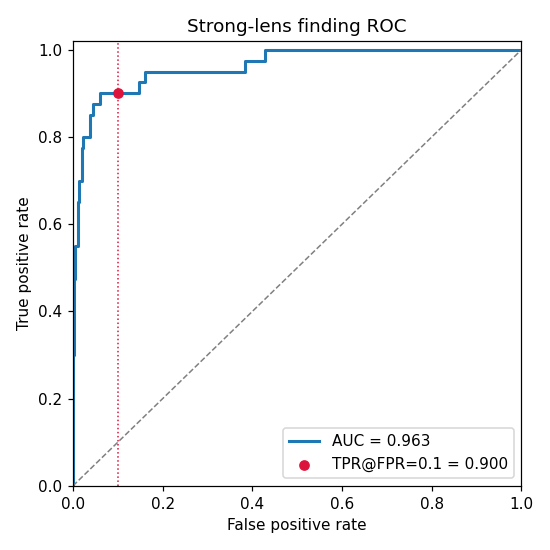
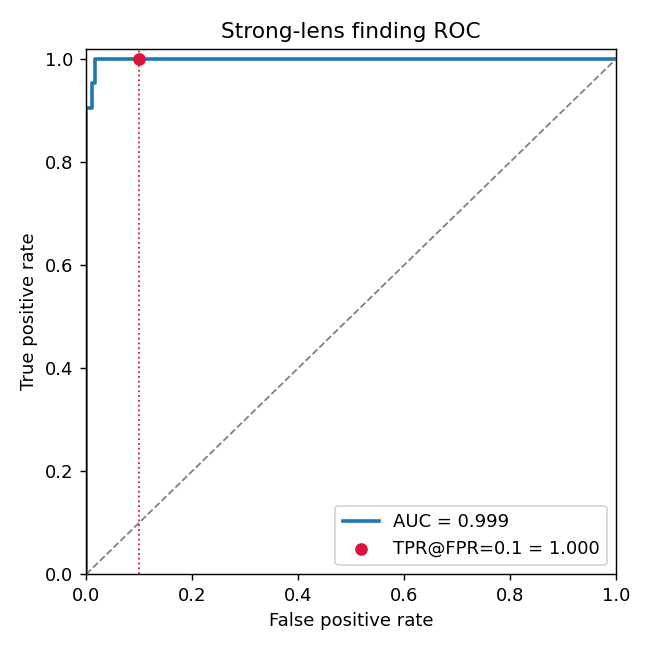
Real DINOv3 results in README + notebook auto-loads best.pt; LoRA all-linear; modern AMP API

Changed region(s): [[0.0309, 0.0309, 0.9891, 0.9891], [0.1855, 0.3709, 0.2164, 0.4018]]

diff --git a/README.md b/README.md
@@ -50,15 +50,17 @@ No GPU yet? `pytest -q` runs a CPU end-to-end check with a tiny timm backbone.
 
 ## Results
 
-Run [`notebooks/results.ipynb`](notebooks/results.ipynb) end-to-end **on CPU**
-(timm fallback backbone — no DINOv3 download, no GPU) to reproduce a ROC curve and
-a ranked-candidate grid. Example output:
+**DINOv3 ViT-B + LoRA**, fine-tuned on lenstronomy simulations and evaluated on a
+held-out simulated set (single RTX 5060, ~3 min): **ROC-AUC 0.999**, **TPR@FPR=0.1 = 1.0**, and the **top-16 ranked candidates are all true lenses** (green border):
 
 ![ROC curve](assets/example_roc.png)
 
 ![Top-ranked candidates](assets/example_ranked_grid.png)
 
-Swap in DINOv3 + a GPU (see the notebook's last section) for publication-grade numbers.
+> Simulated data is deliberately separable, so this validates the *pipeline* rather
+> than the science. The meaningful test is **sim→real**: evaluate on the Bologna
+> Lens Finding Challenge (`dino-lens make-bologna`). Reproduce everything on CPU —
+> no GPU/DINOv3 — with [`notebooks/results.ipynb`](notebooks/results.ipynb).
 
 ## Docs
 - [docs/usage.md](docs/usage.md) — full usage, config reference, DINOv3 access, 8 GB tips.

diff --git a/docs/usage.md b/docs/usage.md
@@ -98,5 +98,8 @@ pytest -q          # metric + toy tests always run; the end-to-end CPU test
 pip install -e ".[notebook]"
 jupyter lab notebooks/results.ipynb   # runs on CPU with a timm fallback backbone
 ```
-It builds a small simulated set, trains a quick baseline, and plots the ROC curve
-and the top-ranked candidates — a self-contained first run and a portfolio figure.
+It **auto-detects** a trained checkpoint at `runs/exp1/best.pt`: if present it
+evaluates your real DINOv3 model and regenerates the README figures
+(`assets/example_roc.png`, `assets/example_ranked_grid.png`); otherwise it trains a
+quick CPU baseline (timm, no DINOv3/GPU). Either way it plots the ROC curve and the
+top-ranked candidates.